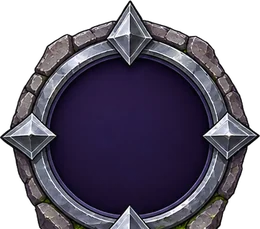
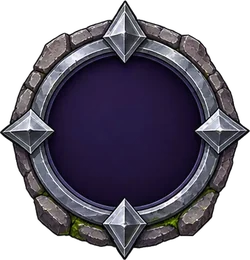
그림 검사·자르기 도구(tools/art_check.py · art_cut.py) · G3-6 메달 아래 뾰족 끝 · 주인공 공격 칼빛 · 슬라임 맞음 · 효과 시트 다시 자름(칸 경계 잘림) · 연꽃 왼쪽 부스러기
Claude-Session: https://claude.ai/code/session_01NYGzT74qeKHZCf17pUuGJ5

diff --git a/tools/art_check.py b/tools/art_check.py
@@ -1,0 +1,38 @@
+"""그림 조각 검사 — 잘림(가장자리 직선) · 떨어진 부스러기 · 반투명 색 번짐 · 너무 작음
+사용: python3 tools/art_check.py assets/d30 assets/words  → 문제 목록 + /tmp/art_check_*.png (밝은·어두운 배경 모음)"""
+import sys, os, glob
+import numpy as np
+from PIL import Image, ImageDraw
+from scipy import ndimage
+FLAT = ('btn_', 'track', 'fill', 'vine', 'panel', 'ribbon', 'zone_', 'bridge', 'rectangle', 'bg', 'map', 'cutin')
+def check(f):
+    n = os.path.basename(f)[:-5]; im = Image.open(f).convert('RGBA'); a = np.array(im); A = a[:, :, 3]; H, W = A.shape; out = []
+    if A.min() > 200: return n, im, out            # 배경(불투명) 그림
+    op = A > 160
+    for side, line, L in (('위', op[0], W), ('아래', op[-1], W), ('왼쪽', op[:, 0], H), ('오른쪽', op[:, -1], H)):
+        run = best = 0
+        for v in line: run = run + 1 if v else 0; best = max(best, run)
+        if best > 0.30 * L and not n.startswith(FLAT): out.append(f'{side} 직선 잘림 의심({best}/{L}px)')
+    m = A > 40; lab, k = ndimage.label(ndimage.binary_dilation(m, iterations=2))
+    if k > 1:
+        sz = ndimage.sum(m, lab, range(1, k + 1)); big = sz.max()
+        bits = [s for s in sz if s < 0.02 * big and s > 6]
+        if len(bits) >= 3: out.append(f'떨어진 부스러기 {len(bits)}개')
+    main = ndimage.binary_dilation(A > 140, iterations=4)
+    rgb = a[:, :, :3].astype(int); sat = rgb.max(2) - rgb.min(2)
+    halo = ((A > 15) & (A < 140) & ~main & (sat > 90)).sum()
+    if halo > 0.01 * (A > 40).sum() and halo > 80: out.append(f'색 번짐 {halo}px')
+    if max(W, H) < 60: out.append(f'너무 작음 {W}x{H}')
+    return n, im, out
+def sheet(items, bg, path):
+    cols = 10; c = Image.new('RGBA', (cols * 130, ((len(items) + cols - 1) // cols) * 150), bg); d = ImageDraw.Draw(c)
+    for i, (n, im, bad) in enumerate(items):
+        t = im.copy(); t.thumbnail((120, 120)); x, y = (i % cols) * 130, (i // cols) * 150
+        c.alpha_composite(t, (x + (125 - t.width) // 2, y + 2)); d.text((x + 3, y + 128), n[:18], fill=(255, 60, 60) if bad else (90, 90, 90) if bg[0] > 128 else (220, 220, 220))
+    c.save(path)
+if __name__ == '__main__':
+    fs = [f for d in sys.argv[1:] for f in sorted(glob.glob(os.path.join(d, '**', '*.webp'), recursive=True))]
+    items = [check(f) for f in fs]; bad = [(n, b) for n, _, b in items if b]
+    for n, b in bad: print('⚠', n, '·', ' / '.join(b))
+    print(f'검사 {len(items)}개 · 문제 {len(bad)}개')
+    sheet(items, (245, 240, 230, 255), '/tmp/art_check_light.png'); sheet(items, (30, 34, 50, 255), '/tmp/art_check_dark.png')

diff --git a/tools/art_cut.py b/tools/art_cut.py
@@ -1,0 +1,22 @@
+"""시트 자르기 — 칸 경계로 자르지 않고, 덩어리(연결된 그림)의 '중심'이 어느 칸에 있는지로 나눔 → 칸을 넘어간 칼빛·발판 끝이 잘리지 않음
+cut(시트, 이름들, 열, 행, 저장폴더, 최대크기)"""
+import numpy as np
+from PIL import Image
+from scipy import ndimage
+def cut(path, names, cols, rows, outdir, maxw=300, thr=60, dil=6, minfrac=0.004):
+    im = Image.open(path).convert('RGBA'); a = np.array(im); a[a[:, :, 3] < thr, 3] = 0; im = Image.fromarray(a)
+    H, W = a.shape[:2]; m = a[:, :, 3] > 0; lab, n = ndimage.label(ndimage.binary_dilation(m, iterations=dil))
+    sz = ndimage.sum(m, lab, range(1, n + 1)); cm = ndimage.center_of_mass(m, lab, range(1, n + 1))
+    cells = {}
+    for i, (s, (cy, cx)) in enumerate(zip(sz, cm), 1):
+        if s < minfrac * W * H / (cols * rows): continue
+        k = min(rows - 1, int(cy / (H / rows))) * cols + min(cols - 1, int(cx / (W / cols)))
+        cells.setdefault(k, []).append(i)
+    res = []
+    for k, nm in enumerate(names):
+        if not nm or k not in cells: continue
+        mk = np.isin(lab, cells[k]) & m; ys, xs = np.where(mk)
+        b = a.copy(); b[~mk, 3] = 0; sub = Image.fromarray(b).crop((xs.min(), ys.min(), xs.max() + 1, ys.max() + 1))
+        if max(sub.size) > maxw: sub.thumbnail((maxw, maxw), Image.LANCZOS)
+        sub.save(f'{outdir}/{nm}.webp', 'WEBP', quality=86, method=6); res.append((nm, sub.size))
+    return res
